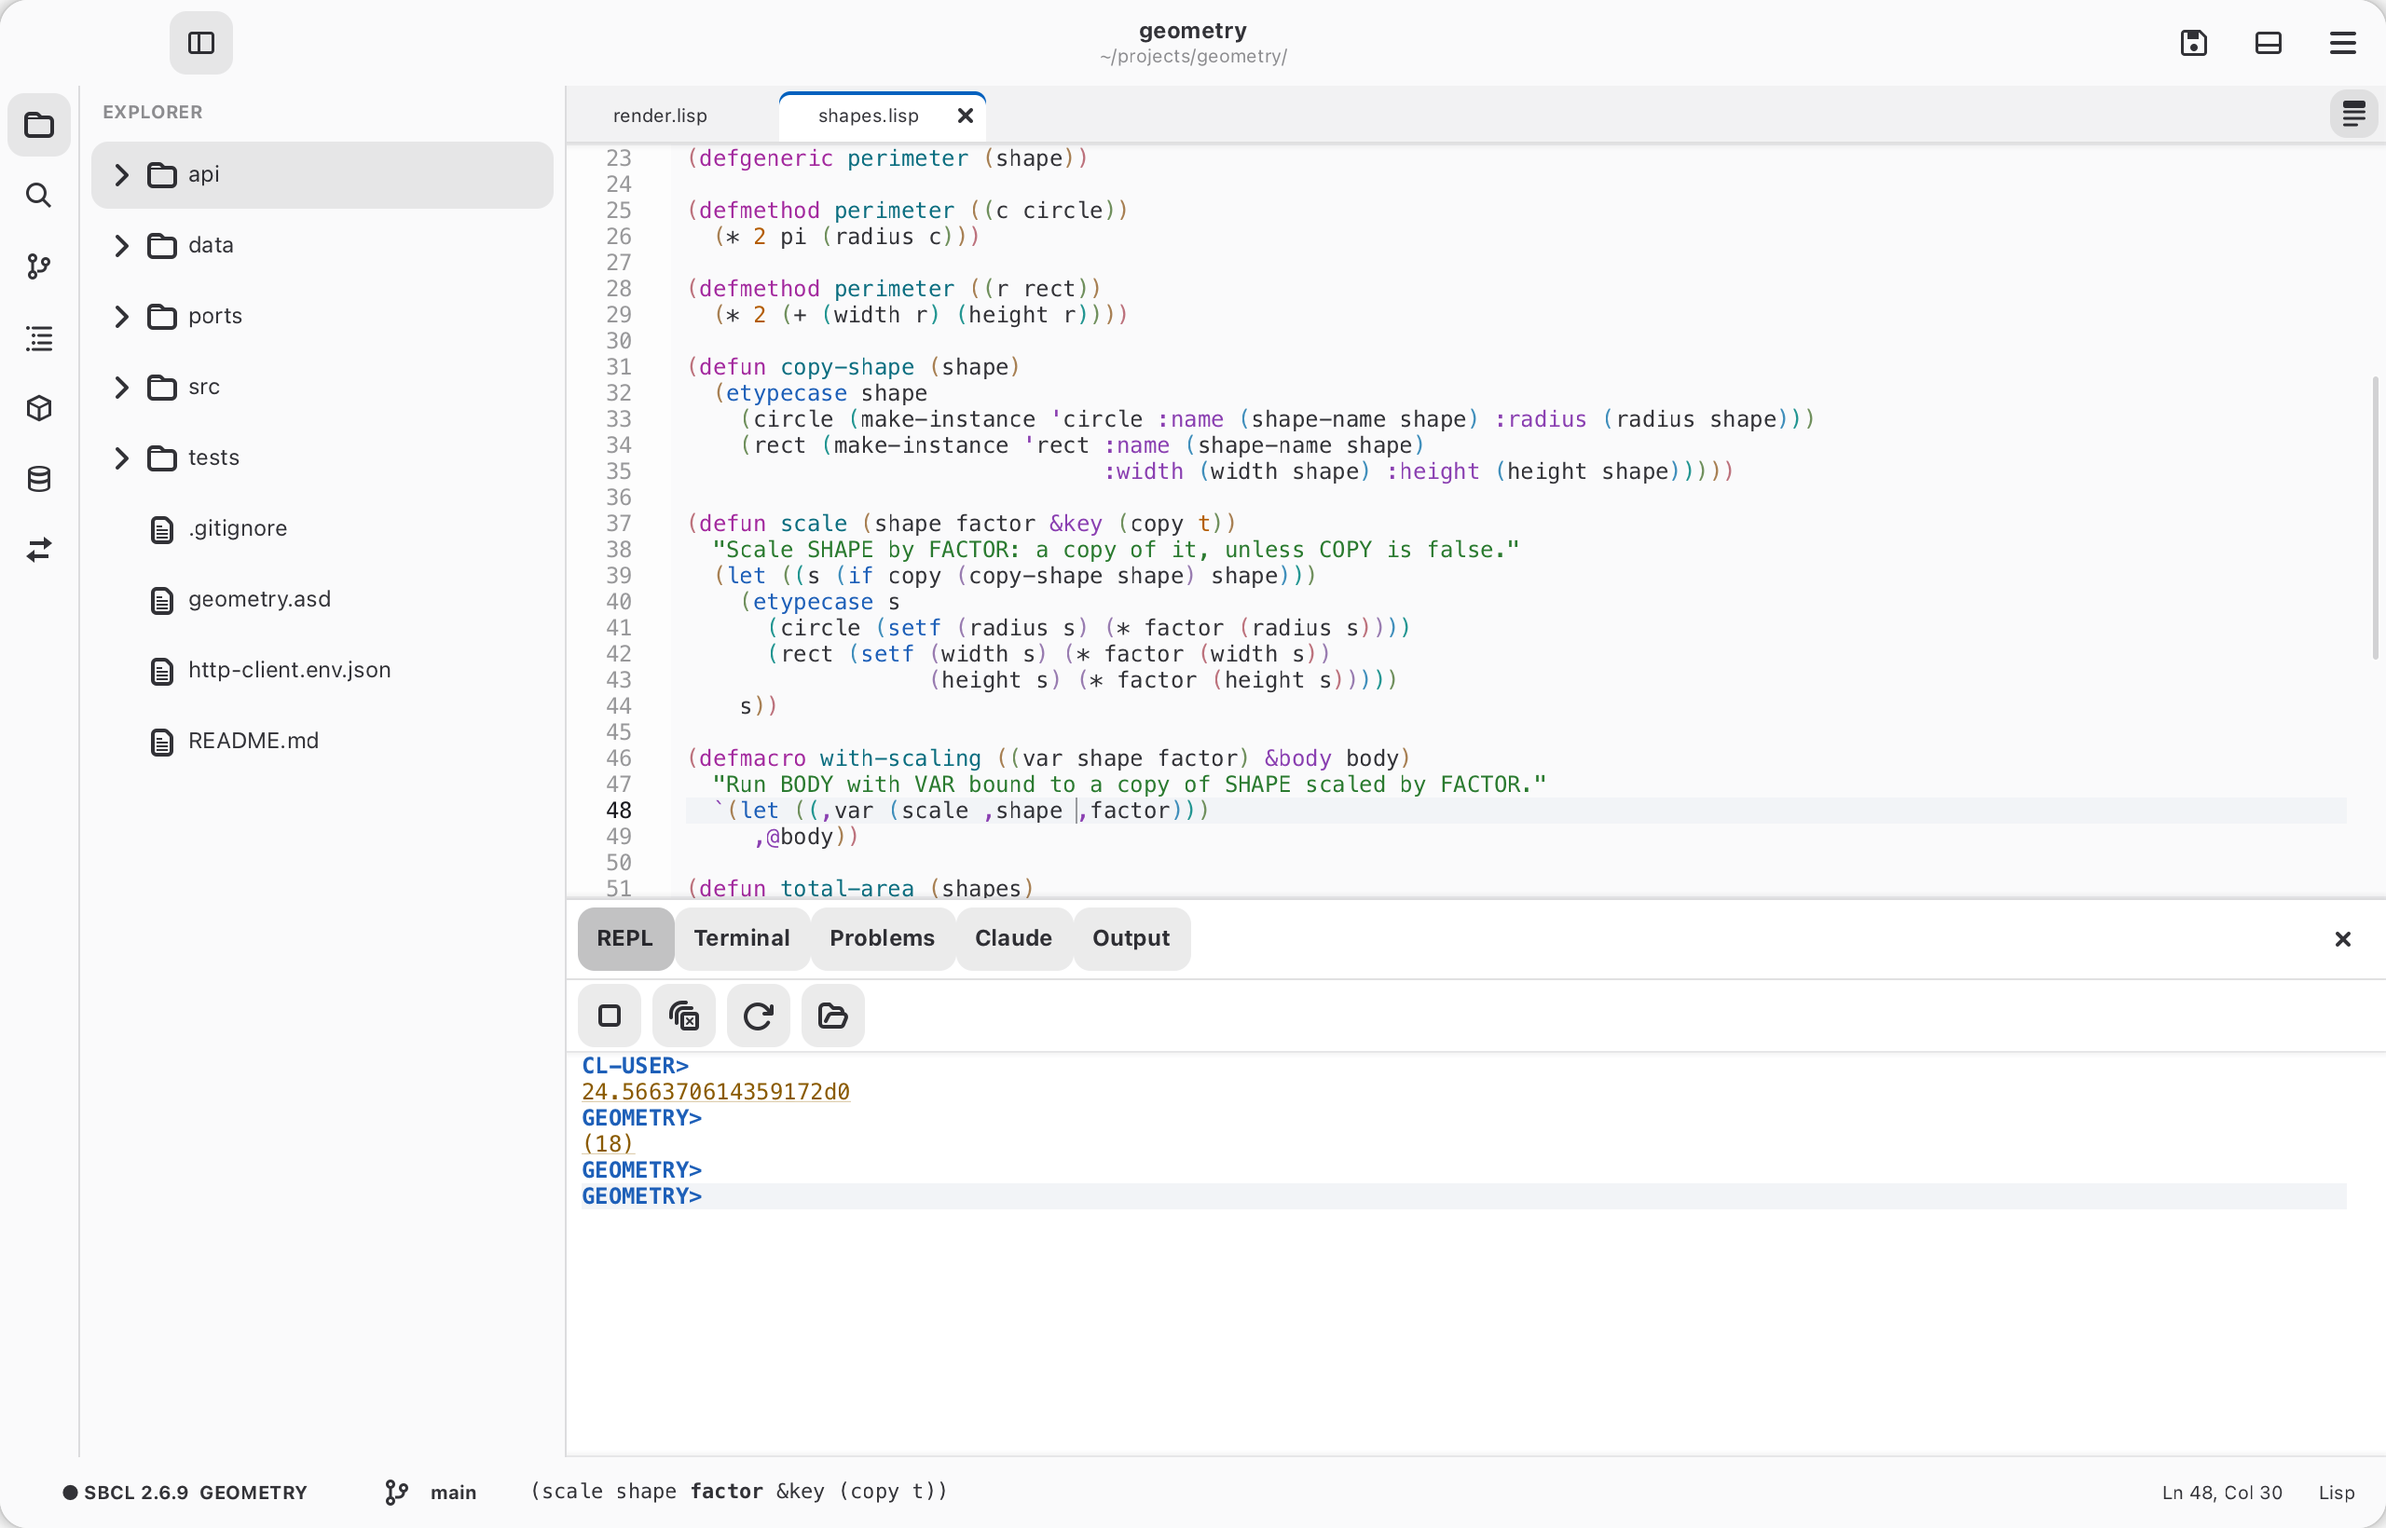
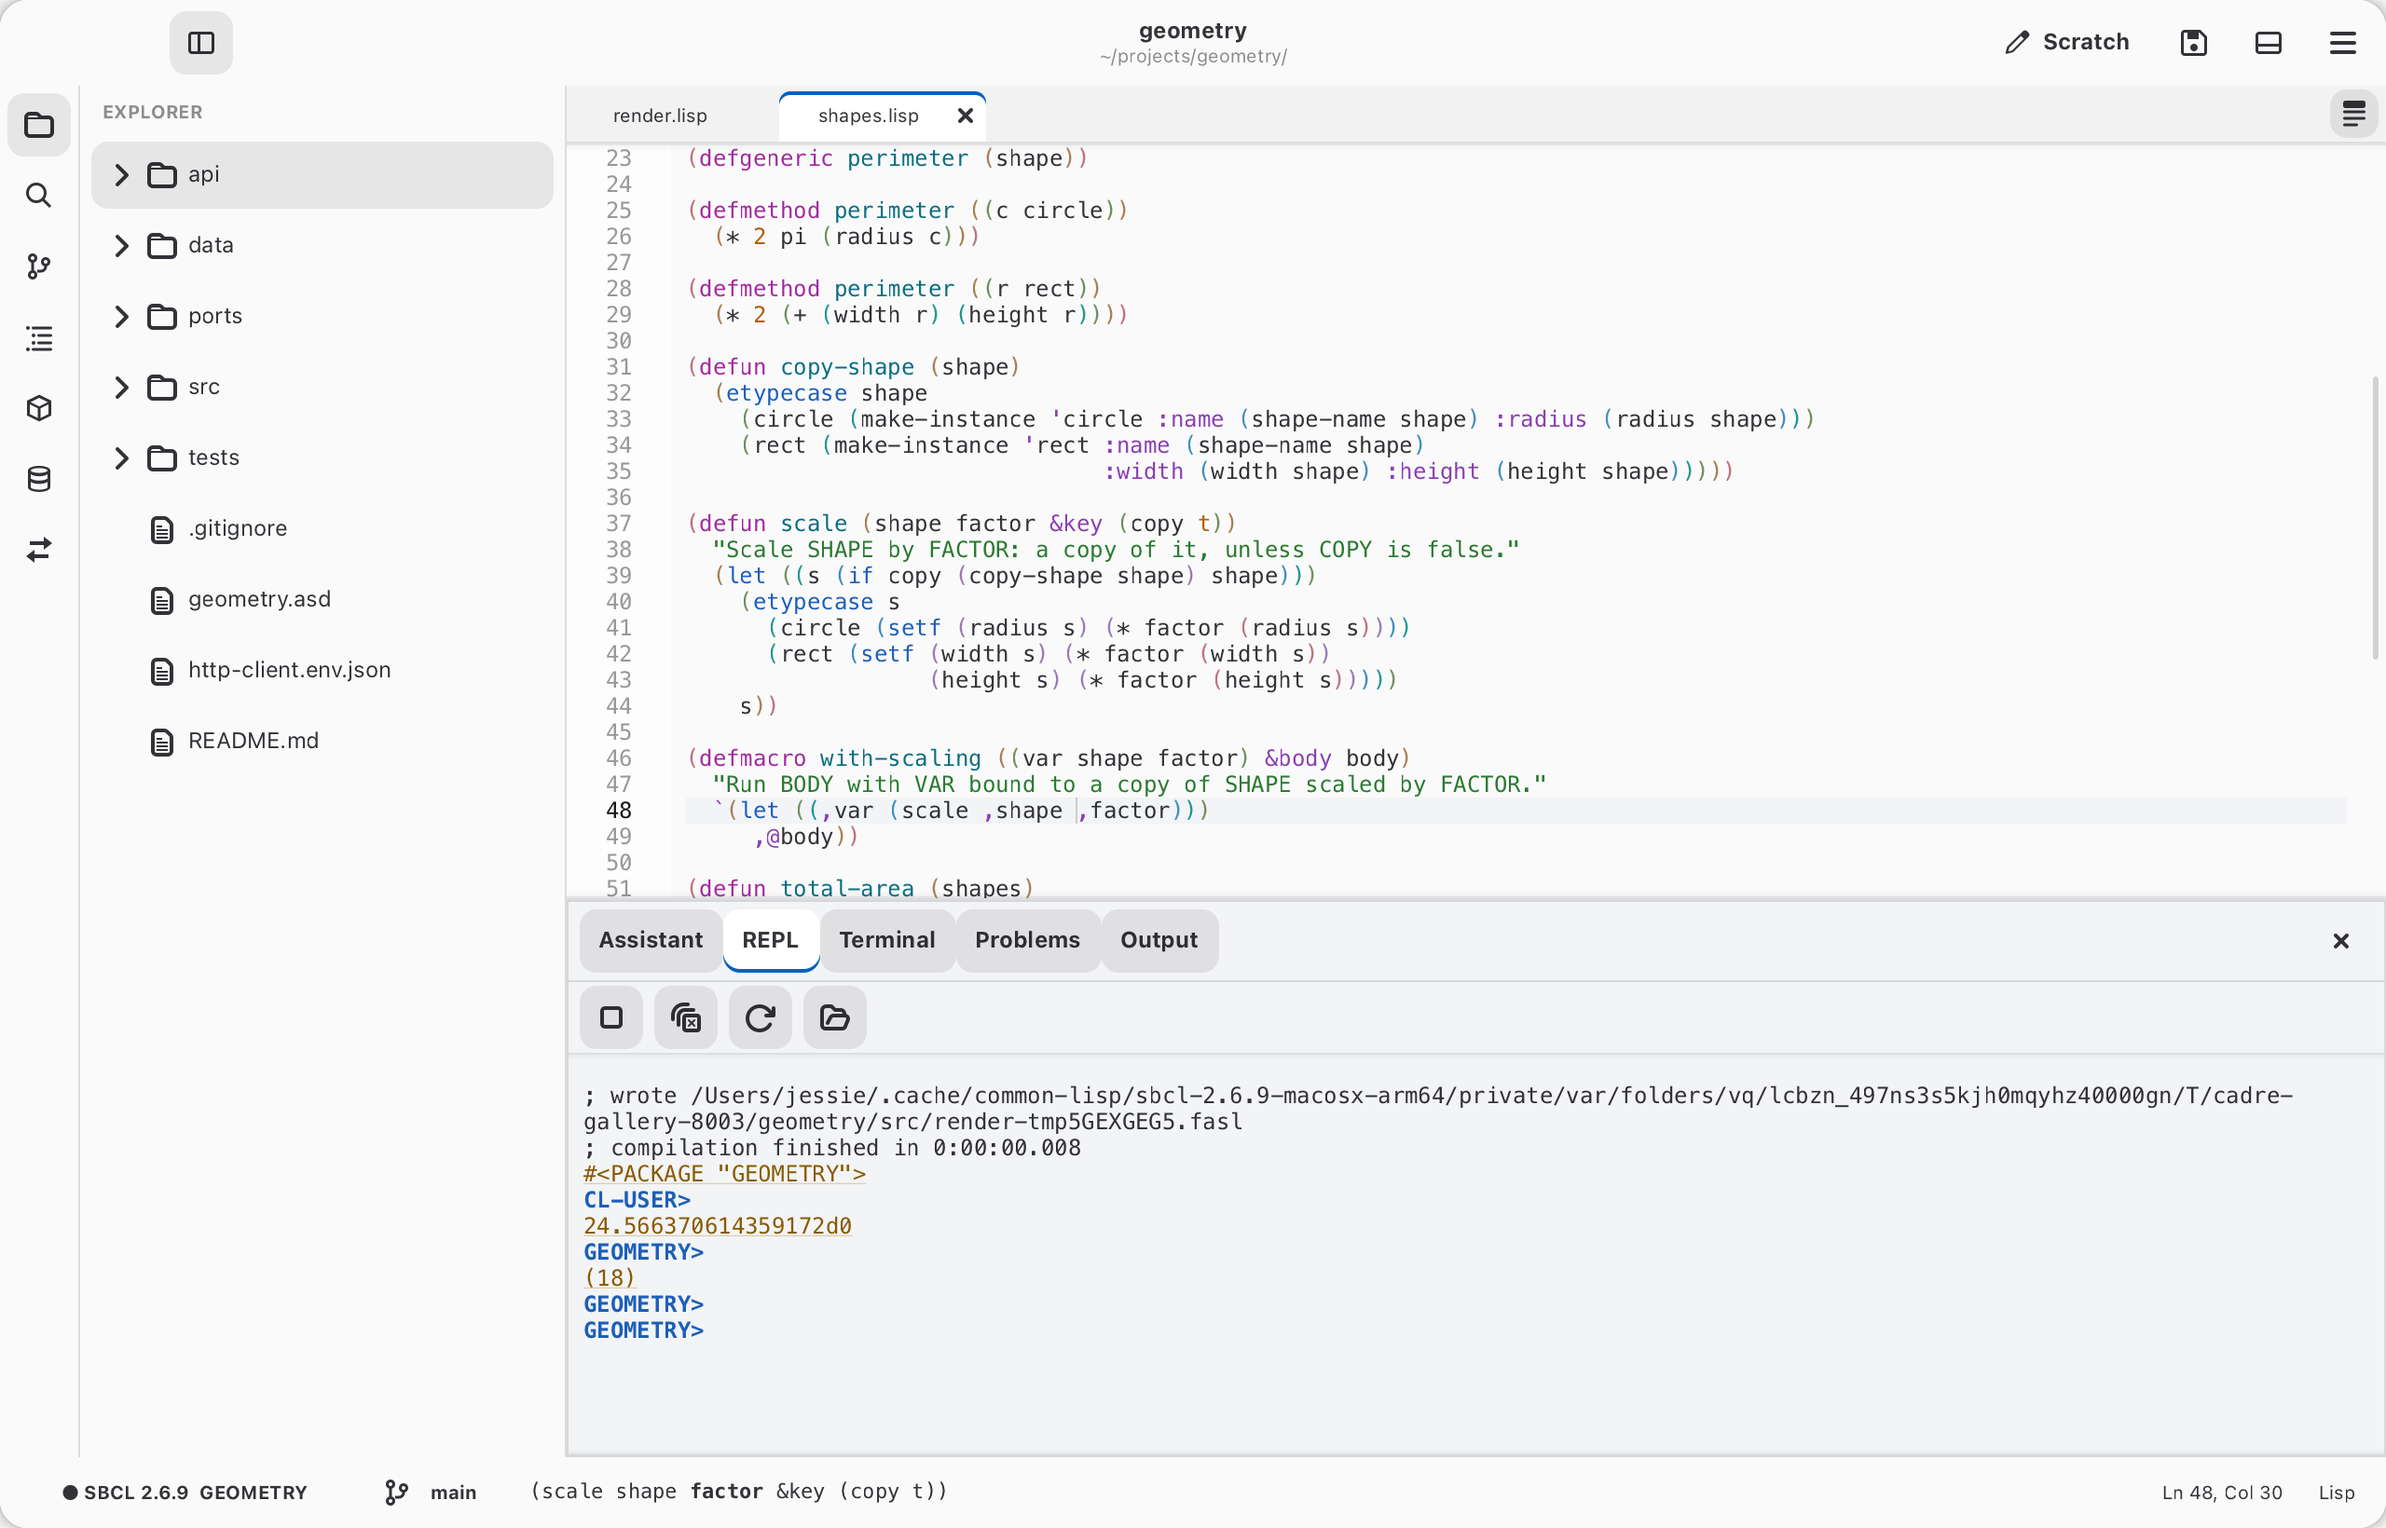
Add scratch button and prepare 1.2.0

diff --git a/docs/manual/common-lisp.md b/docs/manual/common-lisp.md
@@ -179,11 +179,12 @@ are hidden unless you tick Swank's threads.
 
 ## Scratch buffers
 
-**Scratch Buffer** (`Ctrl+K Shift+S`, `C-x M-s` in the Emacs keys, or the
-Lisp menu) opens `*scratch*`, a Lisp buffer
+The **Scratch** button in the header bar opens `*scratch*`, a Lisp buffer
 for trying things out. Each project has its own, kept between sessions but
 outside the project's folder (in `~/.config/cadre/scratch/`), so it never shows
 up in Git. It saves itself as you type and never asks to be saved.
+You can also use **Lisp → Scratch Buffer**, `Ctrl+K Shift+S`, or `C-x M-s`
+in the Emacs keys.
 
 ## The HyperSpec
 

diff --git a/CHANGELOG.md b/CHANGELOG.md
@@ -1,6 +1,9 @@
 # Changelog
 
-## Unreleased
+## 1.2.0
+
+- **Scratch button.** Open the project's persistent scratch buffer directly
+  from the header bar.
 
 - **CLOS browser.** Browse classes and generic functions in the connected
   Lisp by package and name, with inherited slots, method qualifiers and
@@ -15,6 +18,8 @@
   edits appear as inline diffs to accept or reject, and evaluation,
   compilation, loading and tests use Cadre's approval prompts. Stop cancels
   pending tool approvals, and conversations follow the open project folder.
+
+## Unreleased
 
 ## 1.1.1
 
